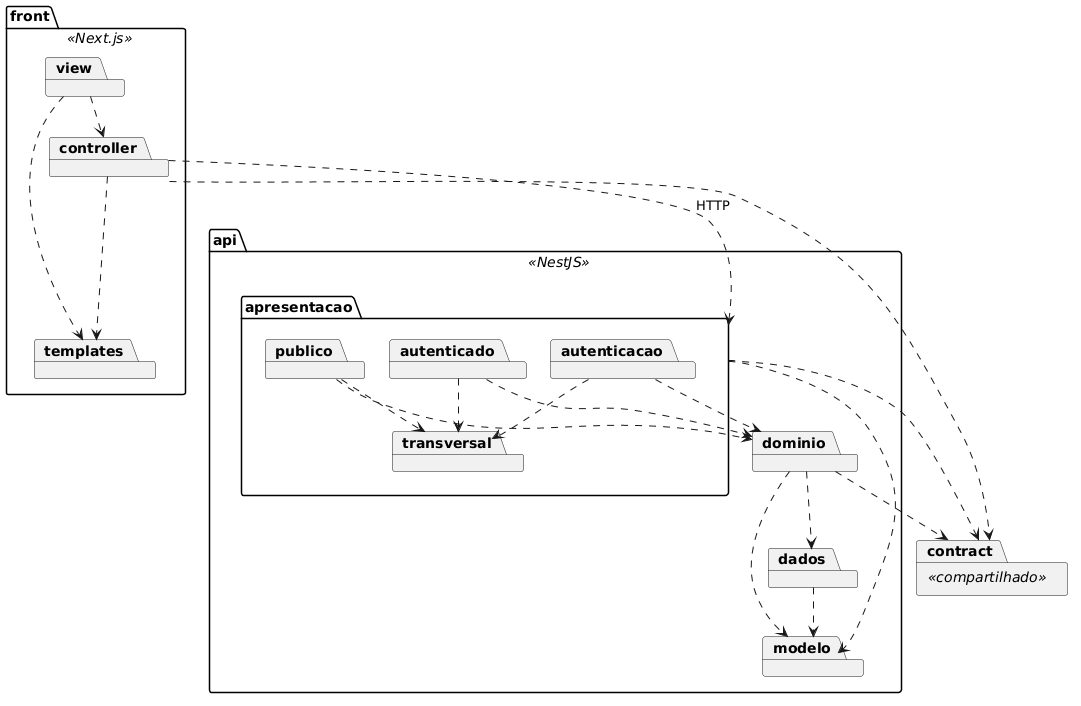
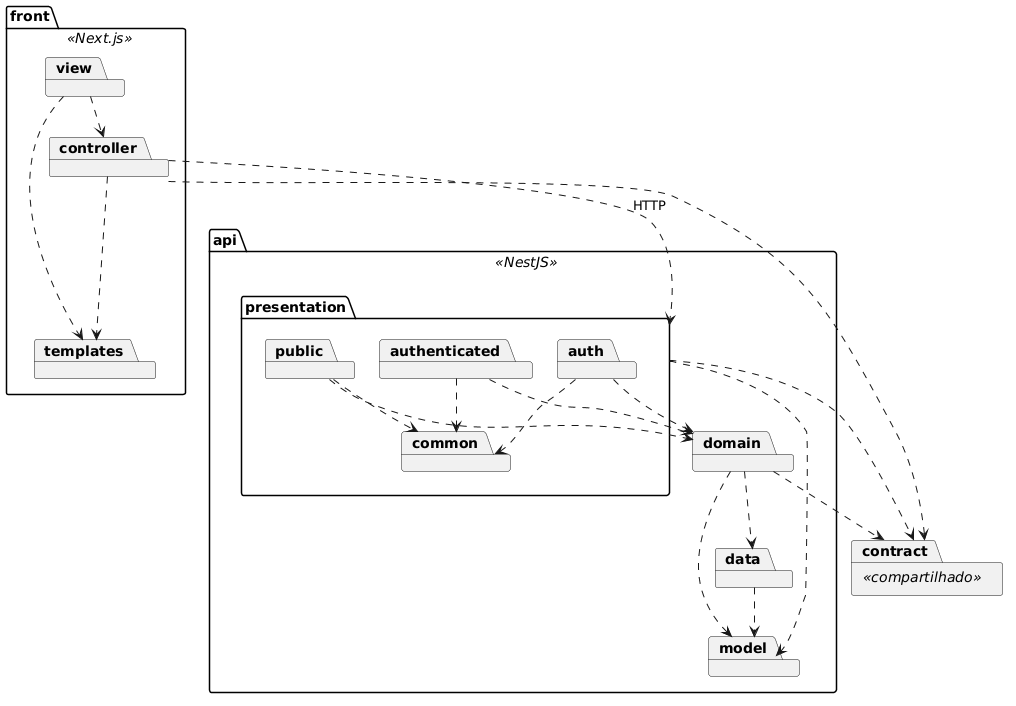
docs: notas dos diagramas viram rotulos e pacotes ganham nome em ingles

diff --git a/docs/Sprints/Sprint-3/Documento-de-Arquitetura-do-Sistema-(DAS).md b/docs/Sprints/Sprint-3/Documento-de-Arquitetura-do-Sistema-(DAS).md
@@ -191,7 +191,7 @@ A divisão parte das três camadas do [ADR-0001](../Sprint-2/Decisões-Arquitetu
 
 ![Diagrama de pacotes](../../.attachments/diagrama-de-pacotes.png)
 
-**Como ler.** Retângulo com aba é pacote. Seta tracejada é dependência, ou seja, o pacote de origem importa alguma coisa do destino. A única seta rotulada é a do `controller` para a `apresentacao`, porque aquela dependência cruza a rede e não é importação de código.
+**Como ler.** Retângulo com aba é pacote. Seta tracejada é dependência, ou seja, o pacote de origem importa alguma coisa do destino. A única seta rotulada é a do `controller` para a `presentation`, porque aquela dependência cruza a rede e não é importação de código.
 
 | Pacote | Camada | O que contém |
 |---|---|---|
@@ -199,27 +199,27 @@ A divisão parte das três camadas do [ADR-0001](../Sprint-2/Decisões-Arquitetu
 | `front.controller` | Apresentação no sentido amplo, partida entre o tier Front e o navegador | Resolução de rota, chamada à API e a consulta periódica do [ADR-0007](../Sprint-2/Decisões-Arquiteturais/0007-Atualização-da-lista-de-presença.md) |
 | `front.templates` | Nenhuma, é ativo estático | Os templates em HTML e CSS do [ADR-0009](../Sprint-2/Decisões-Arquiteturais/0009-Personalização-por-template.md) |
 | `contract` | Nenhuma, é módulo compartilhado | Os tipos que as duas pontas usam, compilados para dentro dos dois builds |
-| `api.apresentacao.publico` | Apresentação | `PublicRsvpController`, a única escrita sem autenticação do sistema |
-| `api.apresentacao.autenticado` | Apresentação | `InviteController` e `DietaryController` |
-| `api.apresentacao.autenticacao` | Apresentação | `AuthController`, ver a ressalva abaixo |
-| `api.apresentacao.transversal` | Apresentação | `SessionGuard`, `RateLimitGuard` e `HttpExceptionFilter` |
-| `api.dominio` | Domínio | Os seis serviços, de `RsvpService` a `TemplateCatalog` |
-| `api.dados` | Dados | `InviteRepository`, `DietaryCategoryRepository` e `HostRepository` |
-| `api.modelo` | Atravessa Domínio e Dados | As classes do [Diagrama de Classes](../Sprint-2/Diagrama-de-Classes.md) e os dois enums |
+| `api.presentation.public` | Apresentação | `PublicRsvpController`, a única escrita sem autenticação do sistema |
+| `api.presentation.authenticated` | Apresentação | `InviteController` e `DietaryController` |
+| `api.presentation.auth` | Apresentação | `AuthController`, ver a ressalva abaixo |
+| `api.presentation.common` | Apresentação | `SessionGuard`, `RateLimitGuard` e `HttpExceptionFilter` |
+| `api.domain` | Domínio | Os seis serviços, de `RsvpService` a `TemplateCatalog` |
+| `api.data` | Dados | `InviteRepository`, `DietaryCategoryRepository` e `HostRepository` |
+| `api.model` | Atravessa Domínio e Dados | As classes do [Diagrama de Classes](../Sprint-2/Diagrama-de-Classes.md) e os dois enums |
 
-### Por que `modelo` é pacote irmão e não filho do Domínio
+### Por que `model` é pacote irmão e não filho do Domínio
 
 Este ponto só aparece quando se desenha o diagrama de pacotes, e decidi-lo errado produz um ciclo de importação que o compilador aceita e que ninguém percebe até a base crescer.
 
 A seção 7.1 registra que o **Domínio depende da camada de Dados**. E a camada de Dados **devolve as classes do modelo**, ou seja, depende delas.
 
-Se `Invite`, `Guest` e as outras morarem dentro do pacote de Domínio, o resultado é `dominio` importando `dados` e `dados` importando `dominio`.
+Se `Invite`, `Guest` e as outras morarem dentro do pacote de Domínio, o resultado é `domain` importando `data` e `data` importando `domain`.
 
-> **As classes de modelo ficam em pacote próprio, no mesmo nível de `dominio` e de `dados`.** Nenhum dos dois importa o outro por causa delas, e os dois importam `modelo`.
+> **As classes de modelo ficam em pacote próprio, no mesmo nível de `domain` e de `data`.** Nenhum dos dois importa o outro por causa delas, e os dois importam `model`.
 
-Isso não contraria o ADR-0001. A regra de lá é que Domínio e Dados não dependem da Apresentação, e ela continua valendo. `modelo` não é uma quarta camada, é onde vivem os classificadores que duas camadas trocam entre si.
+Isso não contraria o ADR-0001. A regra de lá é que Domínio e Dados não dependem da Apresentação, e ela continua valendo. `model` não é uma quarta camada, é onde vivem os classificadores que duas camadas trocam entre si.
 
-### Uma ressalva sobre `autenticacao`
+### Uma ressalva sobre `auth`
 
 O pacote existe porque `AuthController` precisa morar em algum lugar, e **ele não cabe em nenhum dos dois pacotes que o guia define**. Não é do público, porque aquele pacote atende só as rotas que o convidado alcança. Não é do autenticado, porque a rota de entrada é anterior à sessão.
 
@@ -271,26 +271,26 @@ São 29 classes e dois enums, na ordem dos pacotes da seção 5.1.
 
 **Nenhuma classe.** O pacote carrega os tipos que as duas pontas compartilham, e tipo não é classe. Ele é compilado para dentro do build do Front e do build da API, e some na compilação. Os valores de execução que moram nele, como o enum `RsvpStatus`, acabam duplicados dentro dos dois bundles.
 
-#### `api.apresentacao.publico`
+#### `api.presentation.public`
 
 | Classe | Descrição | Operações |
 |---|---|---|
 | `PublicRsvpController` | Expõe a superfície pública do convite. É a única escrita sem sessão do sistema | `GET /public/invites/{publicToken}`, `POST /public/invites/{publicToken}/rsvp`, `parseRequest(dto)` |
 
-#### `api.apresentacao.autenticado`
+#### `api.presentation.authenticated`
 
 | Classe | Descrição | Operações |
 |---|---|---|
 | `InviteController` | Expõe o recurso convite ao anfitrião. Publicação, despublicação e lista de presença | `POST /invites/{inviteId}/publish`, `POST /invites/{inviteId}/unpublish`, `GET /invites/{inviteId}/attendance` |
 | `DietaryController` | Expõe a consolidação alimentar ao anfitrião, incluindo a exportação | `GET /invites/{inviteId}/dietary-summary`, `GET /invites/{inviteId}/dietary-notes.csv`, `renderCsv(rows)`, `neutralizeFormulaPrefix(field)` |
 
-#### `api.apresentacao.autenticacao`
+#### `api.presentation.auth`
 
 | Classe | Descrição | Operações |
 |---|---|---|
 | `AuthController` | Expõe a entrada e o cadastro do anfitrião, fluxo básico e A1 do UC001 | `signIn(email, password)` e `signUp(name, email, password)`. A rota de cada uma ainda não está fechada |
 
-#### `api.apresentacao.transversal`
+#### `api.presentation.common`
 
 | Classe | Descrição | Operações |
 |---|---|---|
@@ -300,7 +300,7 @@ São 29 classes e dois enums, na ordem dos pacotes da seção 5.1.
 
 A leitura e a escrita têm assinaturas diferentes de propósito. Na leitura pública quem chama a API é o container do tier Front, então o endereço de origem visível é sempre o mesmo e contá-lo bloquearia a página para todos os convidados de uma vez.
 
-#### `api.dominio`
+#### `api.domain`
 
 | Classe | Descrição | Operações |
 |---|---|---|
@@ -311,7 +311,7 @@ A leitura e a escrita têm assinaturas diferentes de propósito. Na leitura púb
 | `HostService` | Cadastro e autenticação do anfitrião | Sem assinatura fechada. A realização do UC001 nomeia `hashPassword`, `verifyPassword` e `issueSession` dentro de um objeto de controle, sem separar o que é deste serviço do que é do controller |
 | `TemplateCatalog` | Carrega o catálogo de templates e sustenta a RN2 do UC003 dentro do Domínio | `listTemplateCodes()`, `textFieldLimits(templateCode)` |
 
-#### `api.dados`
+#### `api.data`
 
 | Classe | Descrição | Operações |
 |---|---|---|
@@ -319,7 +319,7 @@ A leitura e a escrita têm assinaturas diferentes de propósito. Na leitura púb
 | `DietaryCategoryRepository` | Serve o dado de referência das cinco categorias alimentares. Fica separado do repositório do convite porque a operação dele não recebe `inviteId` | `listDietaryCategories()` |
 | `HostRepository` | Guarda a conta do anfitrião | `findByEmail(email)`, mais a gravação da conta, sem assinatura fechada |
 
-#### `api.modelo`
+#### `api.model`
 
 As nove classes abaixo vêm do Diagrama de Classes. **Nenhuma tem método próprio**, porque o comportamento mora nos serviços do Domínio, e por isso a linha Métodos repete Nenhum nas nove.
 

diff --git a/docs/Sprints/Sprint-2/Diagrama-de-Classes.md b/docs/Sprints/Sprint-2/Diagrama-de-Classes.md
@@ -31,7 +31,7 @@ Cada atributo parte de uma Estrutura de Dados, de uma Regra de Negócio da [Espe
 - `publicToken` é opcional porque nasce apenas na transição para publicado (UC004 passo 3). Enquanto o convite é rascunho, ele não existe. É o token de 128 bits do [ADR-0005](Decisões-Arquiteturais/0005-Identificador-público-do-convite.md), em coluna separada da chave primária.
 - `eventStartsAt` é um instante só, e não uma data ao lado de uma hora. O [ADR-0013](Decisões-Arquiteturais/0013-Tempo-do-evento.md) explica por quê e fixa o fuso do projeto. O formulário continua pedindo data e hora separadas, e quem junta as duas é a camada de Apresentação da API.
 - A situação ativo ou inativo do link, citada na ED1 do UC004, é derivada de `status` e não vira uma segunda coluna.
-- `capacityLimit` e `maxCompanionsPerGuest` são limites independentes (UC002 RN2). O primeiro vale para o evento inteiro e o segundo para cada resposta. A camada de Dados verifica `capacityLimit` dentro de uma transação. A seção 3.4 do [Guia da Arquitetura](../../Diretrizes-do-Projeto/Guia-da-Arquitetura.md) explica o problema de fazer essa verificação em outra camada.
+- `capacityLimit` e `maxCompanionsPerGuest` são limites independentes (UC002 RN2). O primeiro vale para o evento inteiro e o segundo para cada resposta. A nota da figura marca a invariante do teto: com `capacityLimit` preenchido, a soma de 1 mais `companionCount` de todo `Guest` com status `ACCEPTED` não pode passar de `capacityLimit`. A camada de Dados verifica `capacityLimit` dentro de uma transação. A seção 3.4 do [Guia da Arquitetura](../../Diretrizes-do-Projeto/Guia-da-Arquitetura.md) explica o problema de fazer essa verificação em outra camada.
 - `/totalPeople` é derivado, indicado pela barra, e não é coluna. Quem o calcula em execução é `AttendanceService`, somando os acompanhantes sobre as linhas que `findAttendanceByStatus` já devolveu. É a RN1 do UC007.
 - As três consultas do painel não são operações de `Invite`. A lista do UC007 é uma projeção de `Guest`, a consolidação do UC008 agrega por categoria e a exportação monta uma junção sob demanda. Elas também não geram tabelas próprias. No Domínio, `AttendanceService` oferece `listAttendance` e `DietaryService` atende as outras duas consultas, conforme a tabela 4.2 do [Guia da Arquitetura](../../Diretrizes-do-Projeto/Guia-da-Arquitetura.md). As três operações recebem `inviteId` e `hostId`, em vez de operar sobre uma instância já carregada de `Invite`.
 
